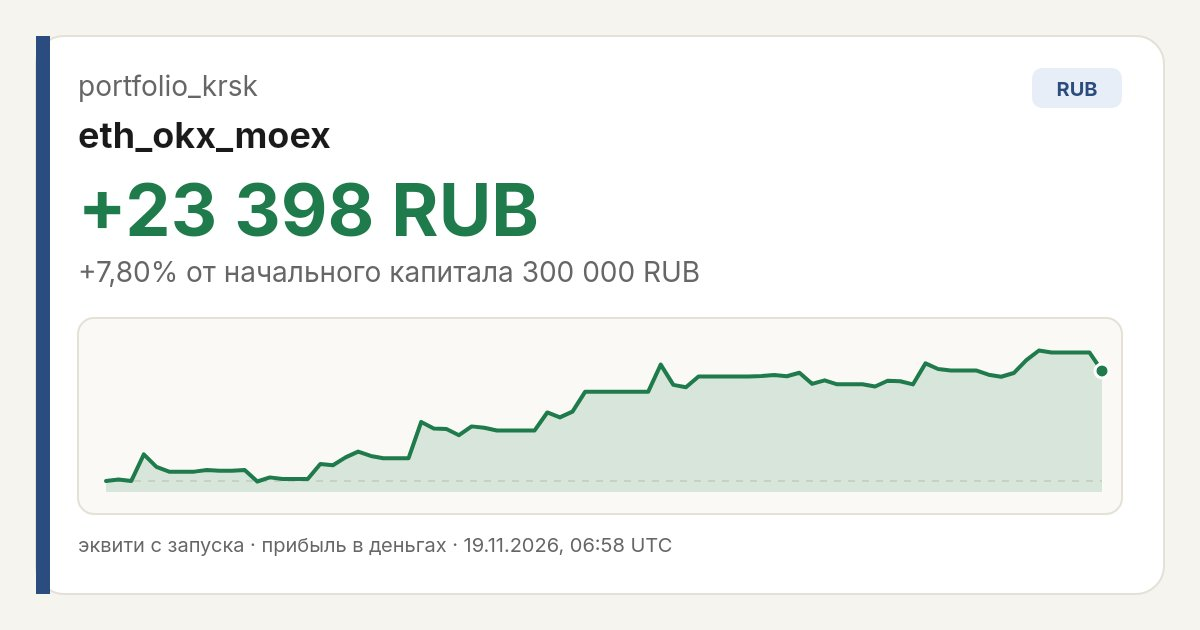
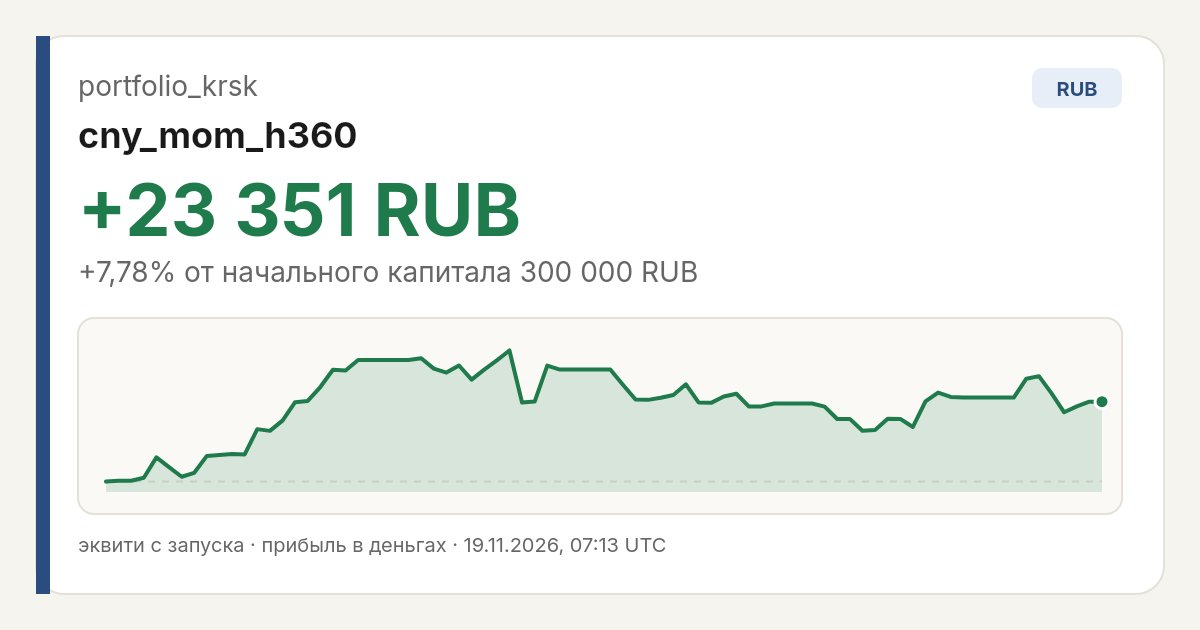
sync equity data 2026-11-19T07:13:56Z

diff --git a/share.html b/share.html
@@ -3,24 +3,24 @@
   <head>
     <meta charset="UTF-8" />
     <meta name="viewport" content="width=device-width, initial-scale=1.0" />
-    <title>portfolio_krsk - eth_okx_moex</title>
-    <meta name="description" content="eth_okx_moex: +23 398 RUB (+7,80%) с запуска. Лидер обложки выбран по доходности в процентах от начального капитала; суммы в разных валютах не сравниваются." />
-    <meta property="og:title" content="portfolio_krsk - eth_okx_moex" />
-    <meta property="og:description" content="eth_okx_moex: +23 398 RUB (+7,80%) с запуска. Лидер обложки выбран по доходности в процентах от начального капитала; суммы в разных валютах не сравниваются." />
+    <title>portfolio_krsk - cny_mom_h360</title>
+    <meta name="description" content="cny_mom_h360: +23 351 RUB (+7,78%) с запуска. Лидер обложки выбран по доходности в процентах от начального капитала; суммы в разных валютах не сравниваются." />
+    <meta property="og:title" content="portfolio_krsk - cny_mom_h360" />
+    <meta property="og:description" content="cny_mom_h360: +23 351 RUB (+7,78%) с запуска. Лидер обложки выбран по доходности в процентах от начального капитала; суммы в разных валютах не сравниваются." />
     <meta property="og:url" content="https://portfolio-krsk.vercel.app/" />
     <meta property="og:site_name" content="portfolio_krsk" />
     <meta property="og:locale" content="ru_RU" />
     <meta property="og:type" content="website" />
-    <meta property="og:image" content="https://varshavskiy1-beep.github.io/portfolio-krsk/og-cover.jpg?v=202611190658" />
-    <meta property="og:image:secure_url" content="https://varshavskiy1-beep.github.io/portfolio-krsk/og-cover.jpg?v=202611190658" />
+    <meta property="og:image" content="https://varshavskiy1-beep.github.io/portfolio-krsk/og-cover.jpg?v=202611190713" />
+    <meta property="og:image:secure_url" content="https://varshavskiy1-beep.github.io/portfolio-krsk/og-cover.jpg?v=202611190713" />
     <meta property="og:image:type" content="image/jpeg" />
     <meta property="og:image:width" content="1200" />
     <meta property="og:image:height" content="630" />
-    <link rel="image_src" href="https://varshavskiy1-beep.github.io/portfolio-krsk/og-cover.jpg?v=202611190658" />
+    <link rel="image_src" href="https://varshavskiy1-beep.github.io/portfolio-krsk/og-cover.jpg?v=202611190713" />
     <meta name="twitter:card" content="summary_large_image" />
-    <meta name="twitter:title" content="portfolio_krsk - eth_okx_moex" />
-    <meta name="twitter:description" content="eth_okx_moex: +23 398 RUB (+7,80%) с запуска. Лидер обложки выбран по доходности в процентах от начального капитала; суммы в разных валютах не сравниваются." />
-    <meta name="twitter:image" content="https://varshavskiy1-beep.github.io/portfolio-krsk/og-cover.jpg?v=202611190658" />
+    <meta name="twitter:title" content="portfolio_krsk - cny_mom_h360" />
+    <meta name="twitter:description" content="cny_mom_h360: +23 351 RUB (+7,78%) с запуска. Лидер обложки выбран по доходности в процентах от начального капитала; суммы в разных валютах не сравниваются." />
+    <meta name="twitter:image" content="https://varshavskiy1-beep.github.io/portfolio-krsk/og-cover.jpg?v=202611190713" />
     <meta http-equiv="refresh" content="0; url=/" />
     <script>location.replace("/")</script>
     <style>
@@ -49,9 +49,9 @@
   </head>
   <body>
     <main>
-      <img src="https://varshavskiy1-beep.github.io/portfolio-krsk/og-cover.jpg?v=202611190658" alt="portfolio_krsk - eth_okx_moex" width="1200" height="630" />
+      <img src="https://varshavskiy1-beep.github.io/portfolio-krsk/og-cover.jpg?v=202611190713" alt="portfolio_krsk - cny_mom_h360" width="1200" height="630" />
       <noscript>
-        <p>eth_okx_moex: +23 398 RUB (+7,80%) с запуска. Лидер обложки выбран по доходности в процентах от начального капитала; суммы в разных валютах не сравниваются.</p>
+        <p>cny_mom_h360: +23 351 RUB (+7,78%) с запуска. Лидер обложки выбран по доходности в процентах от начального капитала; суммы в разных валютах не сравниваются.</p>
         <p><a href="/">Открыть кабинет portfolio_krsk</a></p>
       </noscript>
     </main>
